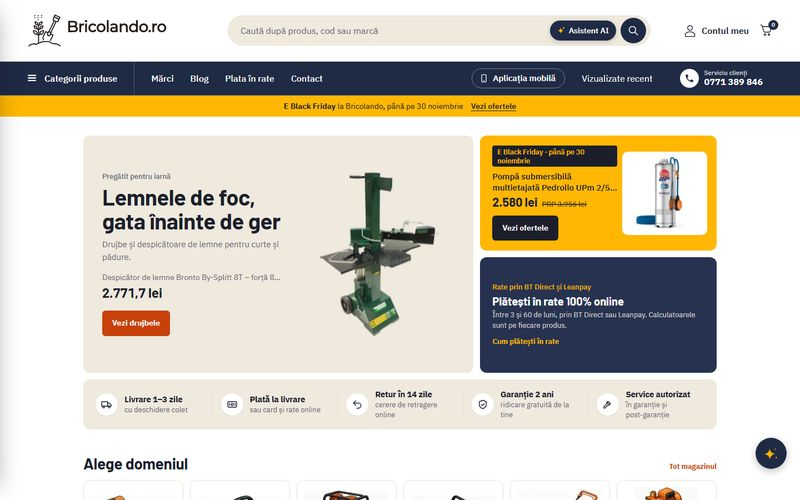
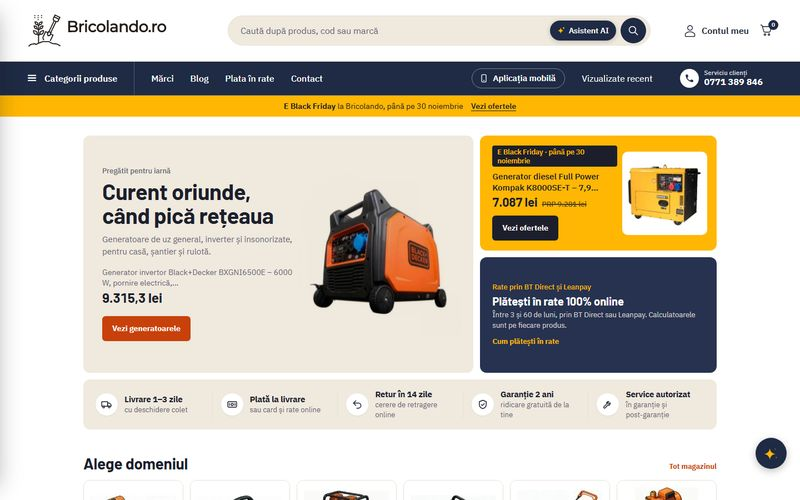
Facelift treapta 1: capturile magazinelor refacute, nota de lucru scoasa din AI_SYNC (publicare)

Changed region(s): [[0.125, 0.33, 0.5625, 0.69], [0.5938, 0.3, 0.875, 0.48]]

diff --git a/AI_SYNC.md b/AI_SYNC.md
@@ -8,15 +8,9 @@ Aici notăm progresul pentru a ne coordona perfect.
 
 ---
 
-### [Claude] - 25 nov 2026 - FACELIFT ÎN LUCRU pe ramura `facelift-1` (notă valabilă până la 2 dec 2026)
-- Alin a aprobat pe 25 nov reparațiile pe designul de azi („repară reverb”). Se lucrează pe ramura `facelift-1`, în dosarul de lucru separat `C:\Users\alind\reverb\reverb-site-facelift` (git worktree). `master` și site-ul public rămân neatinse până la al doilea „da” al lui Alin, pe previzualizare.
-- **Fișiere ocupate, nu le schimbați pe `master` până dispare nota** (altfel apar conflicte la îmbinare): `app/globals.css`, `app/layout.tsx`, `components/Header.tsx`, `components/Footer.tsx`, `app/HomeClient.tsx`, `app/en/HomeClientEn.tsx`, `lib/liveProjects.ts`, `components/WorkShots.tsx`, `components/PortfolioIndex.tsx`, `components/ProjectPreviewModal.tsx`, ambele `ContactForm.tsx`, `app/pachete/page.tsx`, `app/en/packages/page.tsx`, `app/servicii/page.tsx`, `app/en/services/page.tsx`, `public/i18n/*`, `lib/i18n/generated.ts`.
-- Dacă trebuie neapărat schimbat unul dintre ele, scrieți aici ce și de ce; ramura se aduce la zi cu `master` înaintea verificărilor.
-- După 2 dec 2026 nota e expirată: întrebați-l pe Alin sau citiți lucrarea `C:\Users\alind\lucrari\reverb-facelift-10k.md`.
+### [Claude] - 25 nov 2026 - Reparațiile din treapta 1 a faceliftului (publicate pe 25 nov 2026, după „publică reverb”)
 
-### [Claude] - 25 nov 2026 - Reparațiile din treapta 1 a faceliftului (ramura `facelift-1`; pe site doar după „da”-ul lui Alin)
-
-Alin a aprobat pe 25 nov planul `docs/designs/facelift_10k_2026-11-24/design_v2_decizii.md` („repară reverb”). Site-ul arată ca înainte; ce s-a schimbat e mai jos. **Unde o regulă de aici o contrazice pe una mai veche din acest fișier, câștigă cea de aici.**
+Alin a aprobat pe 25 nov planul `docs/designs/facelift_10k_2026-11-24/design_v2_decizii.md` („repară reverb”) și publicarea („publică reverb”). Ramura `facelift-1` e îmbinată în `master`; niciun fișier nu mai e „ocupat”. Site-ul arată ca înainte; ce s-a schimbat e mai jos. Cuvintele „scalare”, „SLA prin contract”, „În administrare”, „clipuri”, „Galeria de concepte” rămân cum sunt (Alin, 25 nov). **Unde o regulă de aici o contrazice pe una mai veche din acest fișier, câștigă cea de aici.**
 
 **Litere și font.**
 - Pe paginile agenției niciun text nu are sub 13 px. Etichete, butoane, rânduri mono: `text-[13px]`; text de citit: `text-sm`. Nu scrieți `text-xs`, `text-[10px]` și altele mai mici. Verificarea: `docs/designs/facelift_10k_2026-11-24/verificari/capturi.py … --prag 13` (ținta: 0).
